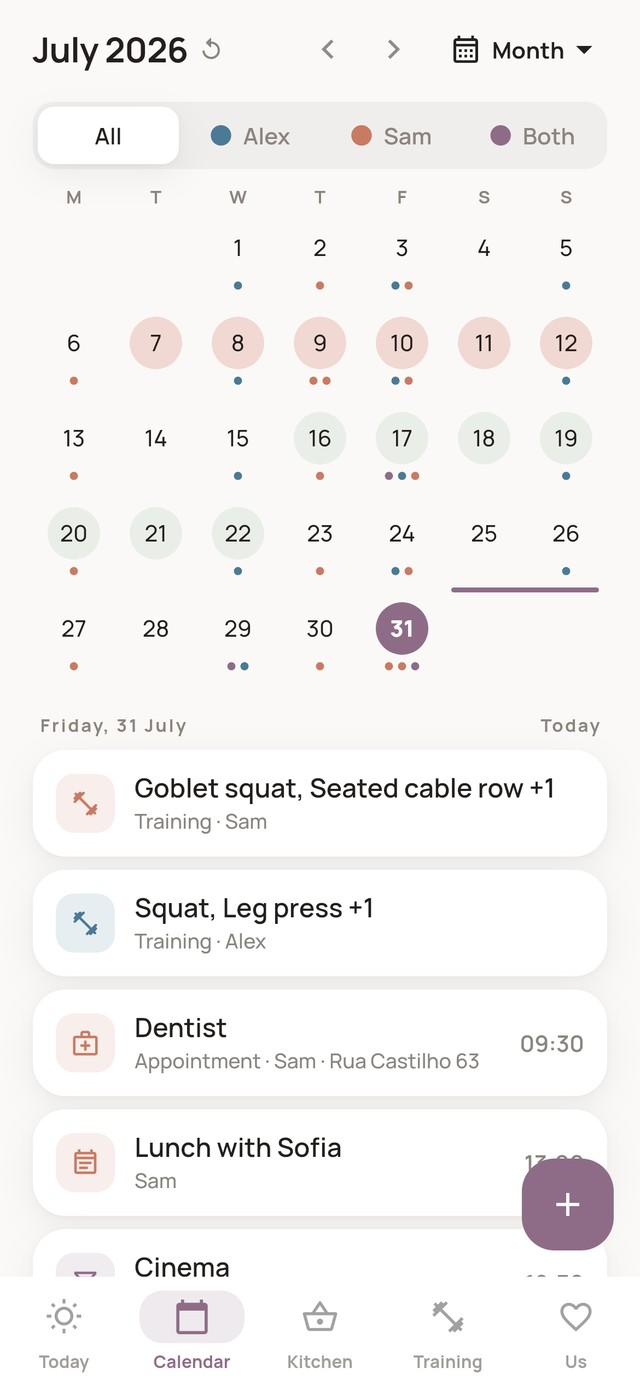
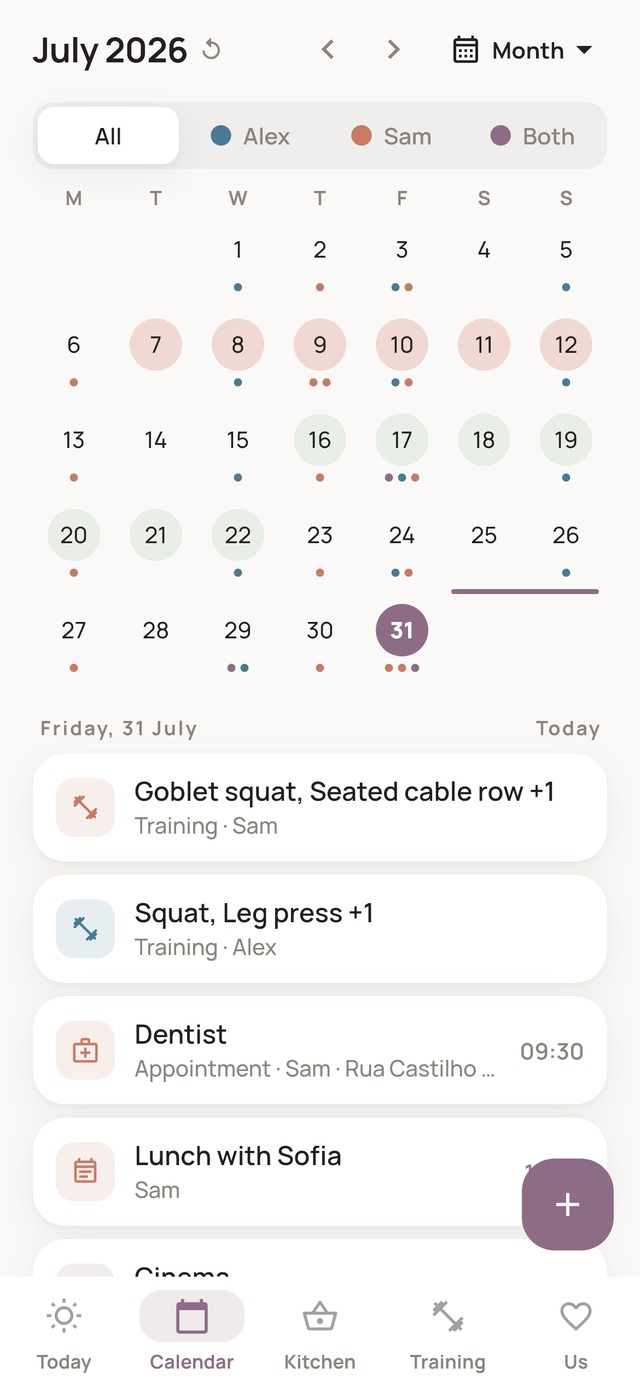
Show a second screen beside the first on three feature sections
The calendar, recipes and training sections each now carry two phones:
the overview, and the screen it opens onto, stepped down and across so
both are read rather than one hiding the other. Shopping and cycle stay
single, there is no second screen worth showing there.

Every screenshot is re-cut from the goldens redrawn for 1.0.4, so they
match the type scale the app actually ships.

diff --git a/pt/index.html b/pt/index.html
@@ -90,7 +90,10 @@
 
     <div class="feature reveal">
       <div class="feature-art">
-        <img class="shot" src="../img/shot-calendar.jpg" alt="Vista mensal do calendário partilhado com pontos coloridos a marcar de quem é cada evento" width="640" height="1385" loading="lazy">
+        <div class="pair">
+          <img class="shot a" src="../img/shot-calendar.jpg" alt="Vista mensal do calendário partilhado com pontos coloridos a marcar de quem é cada evento" width="640" height="1385" loading="lazy">
+          <img class="shot b" src="../img/shot-calendar-week.jpg" alt="O mesmo calendário em semana, hora a hora" width="640" height="1385" loading="lazy">
+        </div>
       </div>
       <div class="feature-copy">
         <h3>Um calendário, os planos dos dois</h3>
@@ -110,7 +113,10 @@
 
     <div class="feature reveal">
       <div class="feature-art">
-        <img class="shot" src="../img/shot-recipes.jpg" alt="Livro de receitas com tempo de confeção, doses e etiquetas indicados em cada receita" width="640" height="1385" loading="lazy">
+        <div class="pair">
+          <img class="shot a" src="../img/shot-recipes.jpg" alt="Livro de receitas com tempo de confeção, doses e etiquetas indicados em cada receita" width="640" height="1385" loading="lazy">
+          <img class="shot b" src="../img/shot-recipe.jpg" alt="Uma receita aberta, com os ingredientes e os passos" width="640" height="1385" loading="lazy">
+        </div>
       </div>
       <div class="feature-copy">
         <h3>Um livro de receitas que se lembra do que cozinham</h3>
@@ -120,7 +126,10 @@
 
     <div class="feature reveal">
       <div class="feature-art">
-        <img class="shot" src="../img/shot-gym.jpg" alt="Resumo de treino a mostrar uma sequência semanal, dias treinados esta semana e séries registadas por grupo muscular" width="640" height="1385" loading="lazy">
+        <div class="pair">
+          <img class="shot a" src="../img/shot-gym.jpg" alt="Resumo de treino a mostrar uma sequência semanal, dias treinados esta semana e séries registadas por grupo muscular" width="640" height="1385" loading="lazy">
+          <img class="shot b" src="../img/shot-exercise-history.jpg" alt="O histórico de um exercício, com todas as séries registadas" width="640" height="1385" loading="lazy">
+        </div>
       </div>
       <div class="feature-copy">
         <h3>Um registo de treino, não uma folha de cálculo</h3>

diff --git a/index.html b/index.html
@@ -90,7 +90,10 @@
 
     <div class="feature reveal">
       <div class="feature-art">
-        <img class="shot" src="img/shot-calendar.jpg" alt="Month view of the shared calendar with coloured dots marking whose event is whose" width="640" height="1385" loading="lazy">
+        <div class="pair">
+          <img class="shot a" src="img/shot-calendar.jpg" alt="Month view of the shared calendar with coloured dots marking whose event is whose" width="640" height="1385" loading="lazy">
+          <img class="shot b" src="img/shot-calendar-week.jpg" alt="The same calendar as a week, laid out hour by hour" width="640" height="1385" loading="lazy">
+        </div>
       </div>
       <div class="feature-copy">
         <h3>One calendar, both of your plans</h3>
@@ -110,7 +113,10 @@
 
     <div class="feature reveal">
       <div class="feature-art">
-        <img class="shot" src="img/shot-recipes.jpg" alt="Recipe book with cook time, servings and tags shown on each recipe card" width="640" height="1385" loading="lazy">
+        <div class="pair">
+          <img class="shot a" src="img/shot-recipes.jpg" alt="Recipe book with cook time, servings and tags shown on each recipe card" width="640" height="1385" loading="lazy">
+          <img class="shot b" src="img/shot-recipe.jpg" alt="A recipe open, with its ingredients and steps" width="640" height="1385" loading="lazy">
+        </div>
       </div>
       <div class="feature-copy">
         <h3>A recipe book that remembers what you cook</h3>
@@ -120,7 +126,10 @@
 
     <div class="feature reveal">
       <div class="feature-art">
-        <img class="shot" src="img/shot-gym.jpg" alt="Training overview showing a weekly streak, days trained this week, and sets logged by muscle group" width="640" height="1385" loading="lazy">
+        <div class="pair">
+          <img class="shot a" src="img/shot-gym.jpg" alt="Training overview showing a weekly streak, days trained this week, and sets logged by muscle group" width="640" height="1385" loading="lazy">
+          <img class="shot b" src="img/shot-exercise-history.jpg" alt="One movement's own history, every set it was logged with" width="640" height="1385" loading="lazy">
+        </div>
       </div>
       <div class="feature-copy">
         <h3>A training log, not a spreadsheet</h3>

diff --git a/style.css b/style.css
@@ -390,8 +390,12 @@ a.wordmark { text-decoration: none !important; }
 .feature:first-child { border-top: none; }
 .feature:nth-child(even) .feature-art { order: 2; }
 .feature:nth-child(even) .feature-copy { order: 1; }
-.feature:nth-child(3) .feature-art .shot { transform: rotate(-1.6deg); }
+.feature:nth-child(3) .feature-art > .shot { transform: rotate(-1.6deg); }
 .feature-art .shot { max-width: 280px; margin: 0 auto; }
+.feature-art .pair { position: relative; max-width: 460px; margin: 0 auto; padding-bottom: 68px; }
+.feature-art .pair .shot { max-width: none; margin: 0; }
+.feature-art .pair .a { width: 52%; position: relative; z-index: 2; }
+.feature-art .pair .b { width: 52%; position: absolute; right: 0; top: 68px; z-index: 1; }
 .feature-copy h3 {
   font-size: 1.5rem;
   font-weight: 800;
